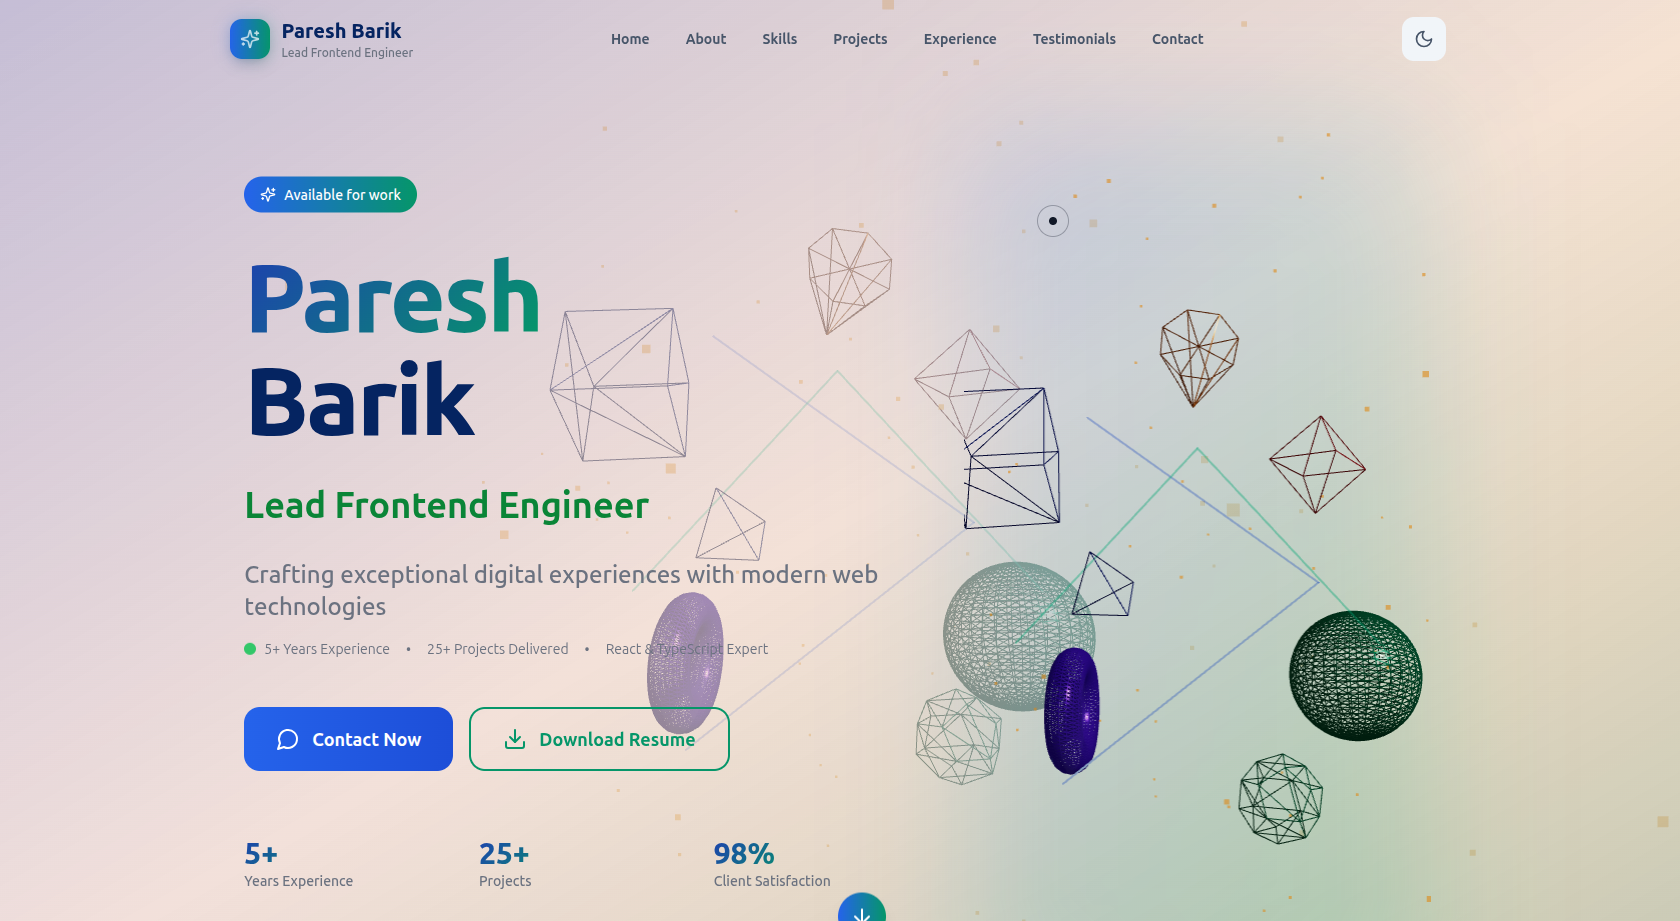
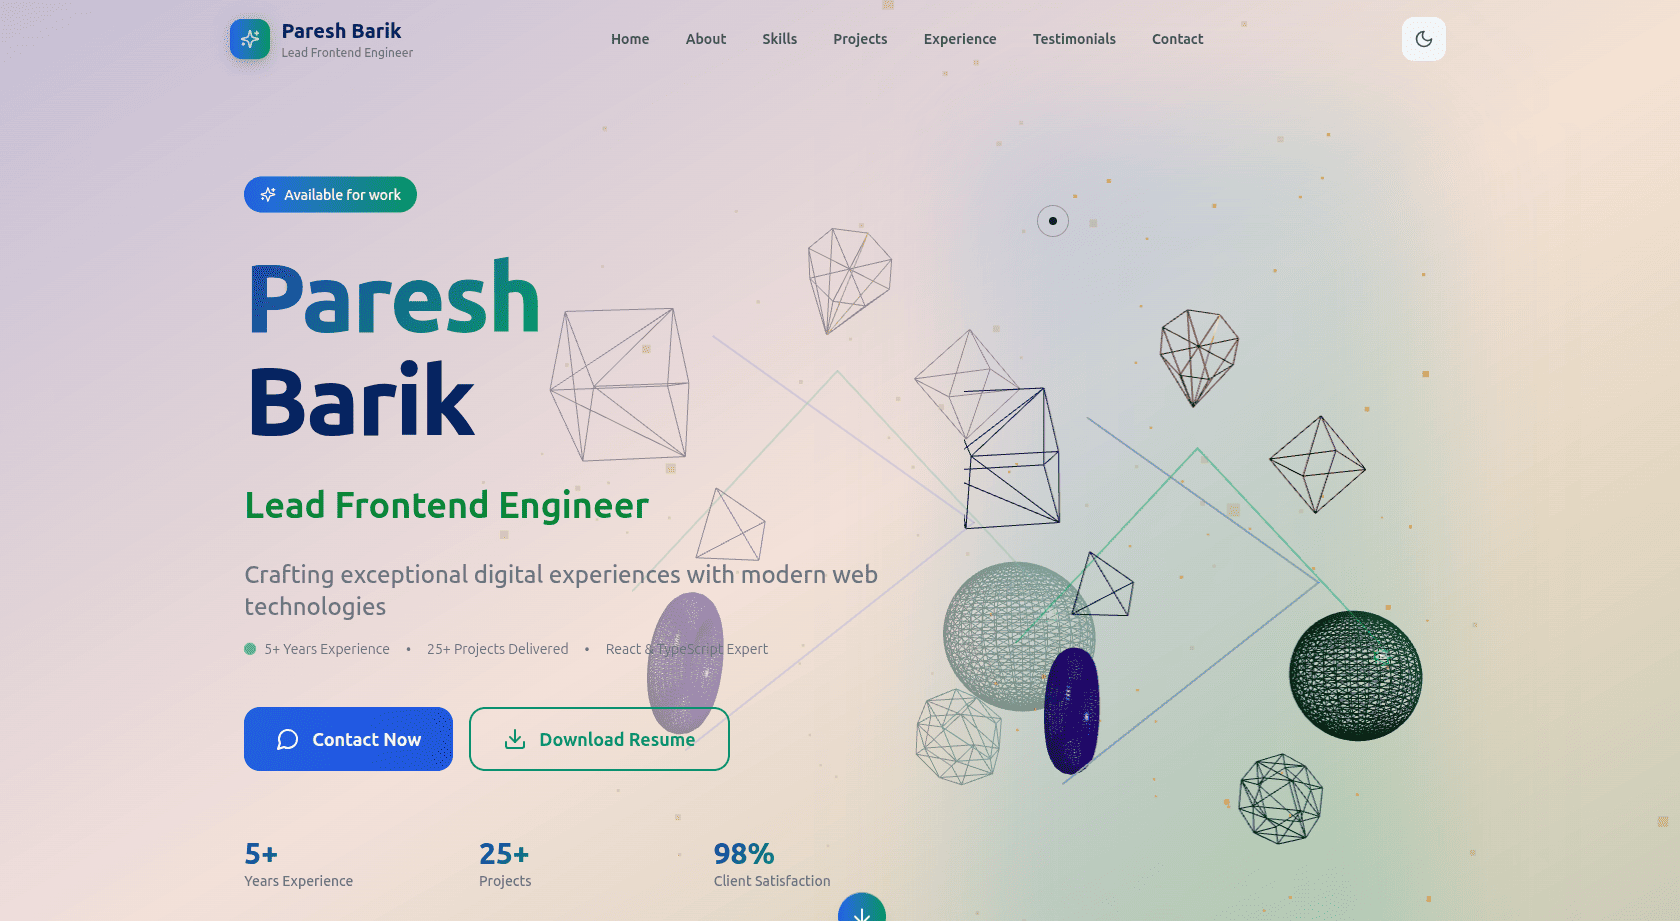
cover image compressed & added

diff --git a/index.html b/index.html
@@ -8,7 +8,7 @@
 
     <!-- Open Graph meta tags -->
     <meta property="og:title" content="Paresh Barik Portfolio" />
-    <meta property="og:description" content="Lead Frontend Engineer Portfolio - Paresh Barik" />
+    <meta property="og:description" content="Lead Frontend Engineer" />
     <meta property="og:image" content="https://paresh-barik-neophyte.github.io/portfolio/portfolioCoverImage.png" />
     <meta property="og:image:type" content="image/png" />
     <meta property="og:image:width" content="1680" />
